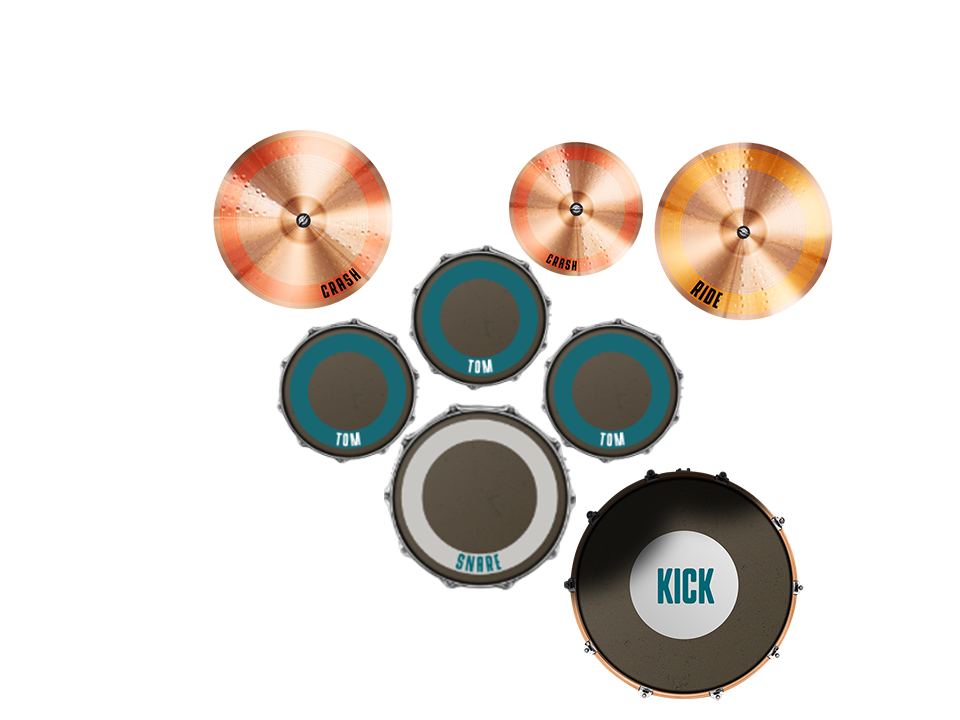
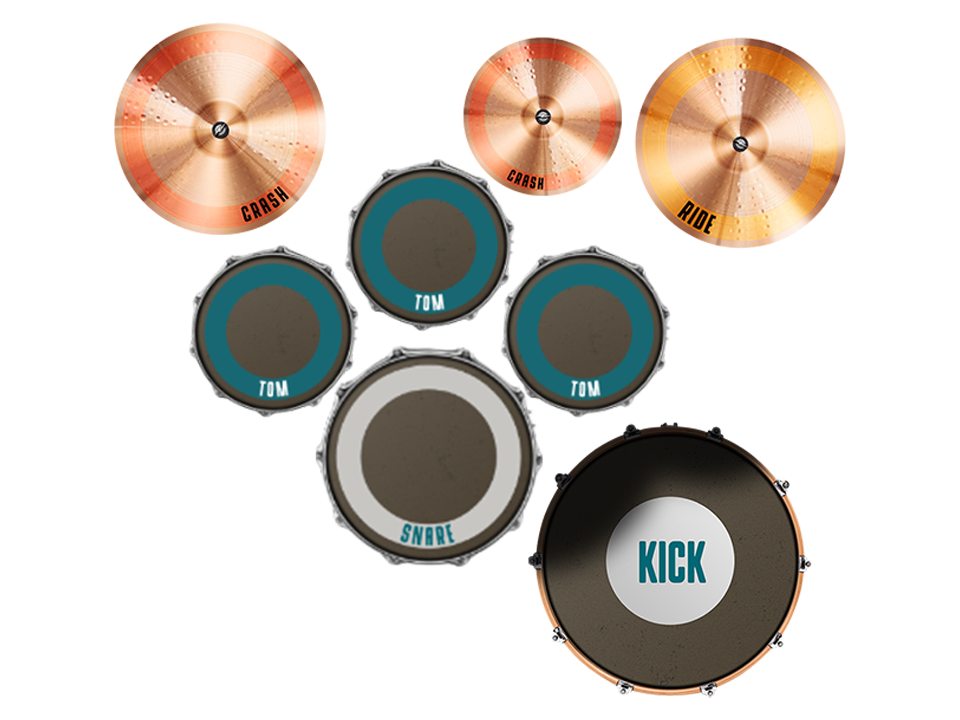
selamat tahun baru 2024

diff --git a/Testing/DDBot/main-ID.py b/Testing/DDBot/main-ID.py
@@ -267,7 +267,6 @@ def earthquake():
     return f"Gempa terkini terjadi tanggal {datt['date'][0]} pada {datt['date'][1][0:5].replace('.', ':')} Waktu Indonesia Barat. Dengan magnitudo {datt['magnitude']} skala richter. Di kedalaman {datt['depth']}. {datt['loc']}"
 
 def respond(voice_data:str):
-    print(voice_data)
     global start_time, bangun, temperature
     if bangun:
         if there_exists(['hai', 'hello', 'halo']) and not there_exists(['robot']):
@@ -336,8 +335,12 @@ def respond(voice_data:str):
             speak(time)
 
         elif there_exists(['tanggal berapa sekarang', 'katakan tanggal berapa sekarang', 'sekarang tanggal berapa']):
-            date = datetime.date.today().strftime("%d/%m/%Y")
-            speak(f'Sekarang {date}')
+            date = datetime.date.today()
+            datestr = date.strftime("%d/%m/%Y")
+            speak(f'Sekarang {datestr}')
+            if date.day == 31 and date.month == 12:
+                speak('oh ya aku ingin mengucapkan sesuatu')
+                speak(f'selamat tahun baru {date.year+1}! tahun baru berarti babak baru, mari kita sambut tahun baru {date.year+1} dengan penuh suka cita')
 
         elif there_exists(['ucapkan', 'kalau begitu ucapkan']):
             word = voice_data.split('ucapkan')[-1]

diff --git a/Testing/Drum/main.py b/Testing/Drum/main.py
@@ -15,23 +15,23 @@ rideSound = pygame.mixer.Sound('audio/wav/ride.wav')
 kickSound = pygame.mixer.Sound('audio/wav/kick.wav')
 cap = cv2.VideoCapture(0)
 drumImg = cv2.imread('Images/drum/drum.png', -1)
-detector = HandDetector(staticMode=False, maxHands=2, modelComplexity=1, detectionCon=0.7, minTrackCon=0.7)
+detector = HandDetector(staticMode=False, maxHands=2, modelComplexity=1, detectionCon=0.5, minTrackCon=0.7)
 
-snareRadius = 90
-snarePos = (480, 497)
+snareRadius = 110
+snarePos = (430, 455)
 
-tomRadius = 60
-tom1Pos = (348, 391)
-tom2Pos = (480, 318)
-tom3Pos = (612, 391)
+tomRadius = 80
+tom1Pos = (273, 331)
+tom2Pos = (430, 244)
+tom3Pos = (585, 332)
 
-crashlRadius = 90
-crashlPos = (303, 219)
-ridePos = (743, 232)
-crashrRadius = 70
-crashrPos = (576, 209)
-kickRadius = 120
-kickPos = (684, 584)
+crashlRadius = 110
+crashlPos = (220, 130)
+ridePos = (738, 144)
+crashrRadius = 80
+crashrPos = (540, 115)
+kickRadius = 130
+kickPos = (670, 560)
 
 tapR = False
 tapL = False
